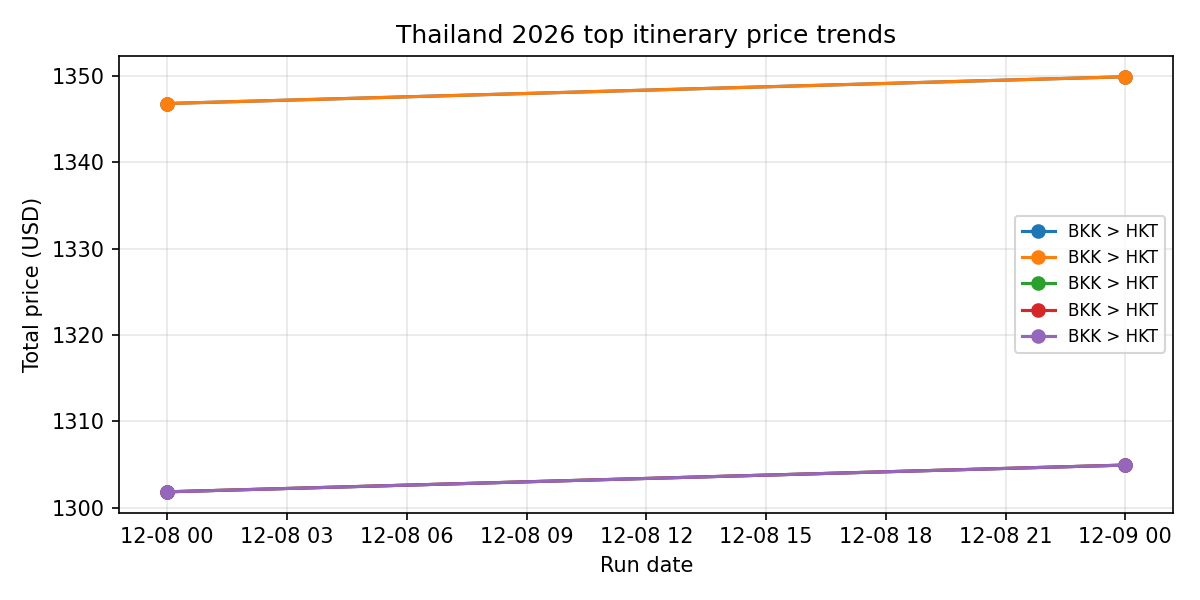
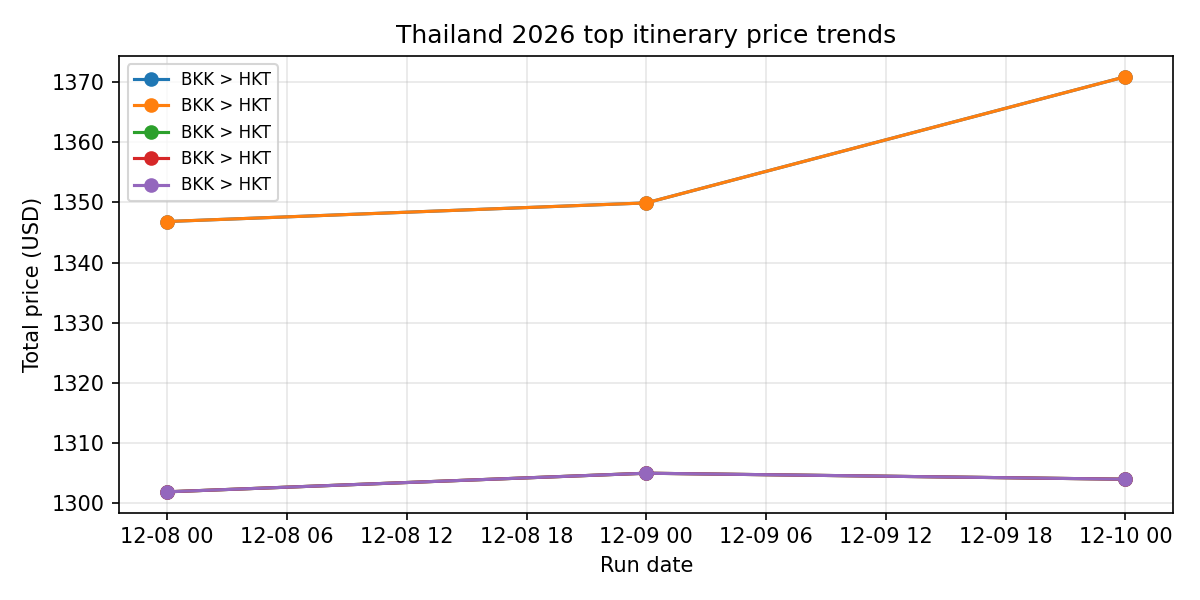
Update Thailand tracker [skip ci]

diff --git a/data/thailand_best.md b/data/thailand_best.md
@@ -3,11 +3,11 @@ Sequence: BKK (Bangkok) > HKT (Phuket)
 
 Depart 2026-05-20 • Return 2026-05-31
 
-Total price: $1304.93 • Total travel time: 49.3h
+Total price: $1303.93 • Total travel time: 49.2h
 
 | Leg | Flight(s) | Depart → Arrive | Duration | Price | Stops / Layovers |
 | --- | --- | --- | --- | --- | --- |
-| ORD (Chicago) → BKK (Bangkok) | AC1049, AC65 | 2026-05-20 15:40 → 2026-05-22 05:15 | 25.6h | $587 (round-trip fare) | 1 stop(s); YVR (5.1h) |
+| ORD (Chicago) → BKK (Bangkok) | AC1049, AC65 | 2026-05-20 15:40 → 2026-05-22 05:05 | 25.4h | $587 (round-trip fare) | 1 stop(s); YVR (5.2h) |
 | BKK (Bangkok) → HKT (Phuket) | VZ312 | 2026-05-25 21:00 → 2026-05-25 22:30 | 1.5h |  | 0 stop(s); — |
 | HKT (Phuket) → ORD (Chicago) | KE678, KE37 | 2026-05-31 23:25 → 2026-06-01 09:40 | 22.2h |  | 1 stop(s); ICN (3.1h) |
-| **Total** |  |  | **49.3h** | **$1305** |  |
+| **Total** |  |  | **49.2h** | **$1304** |  |
